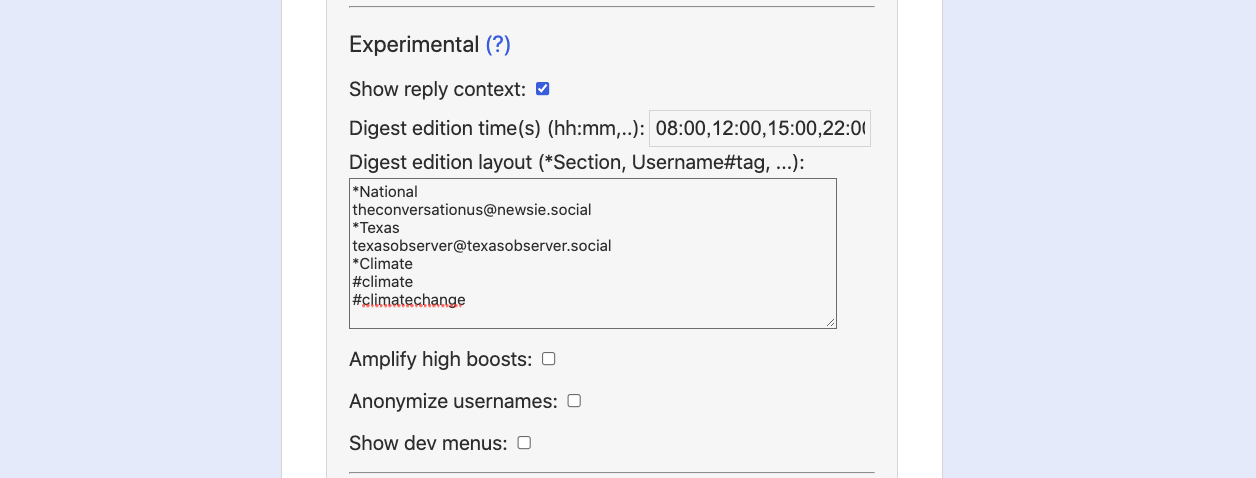
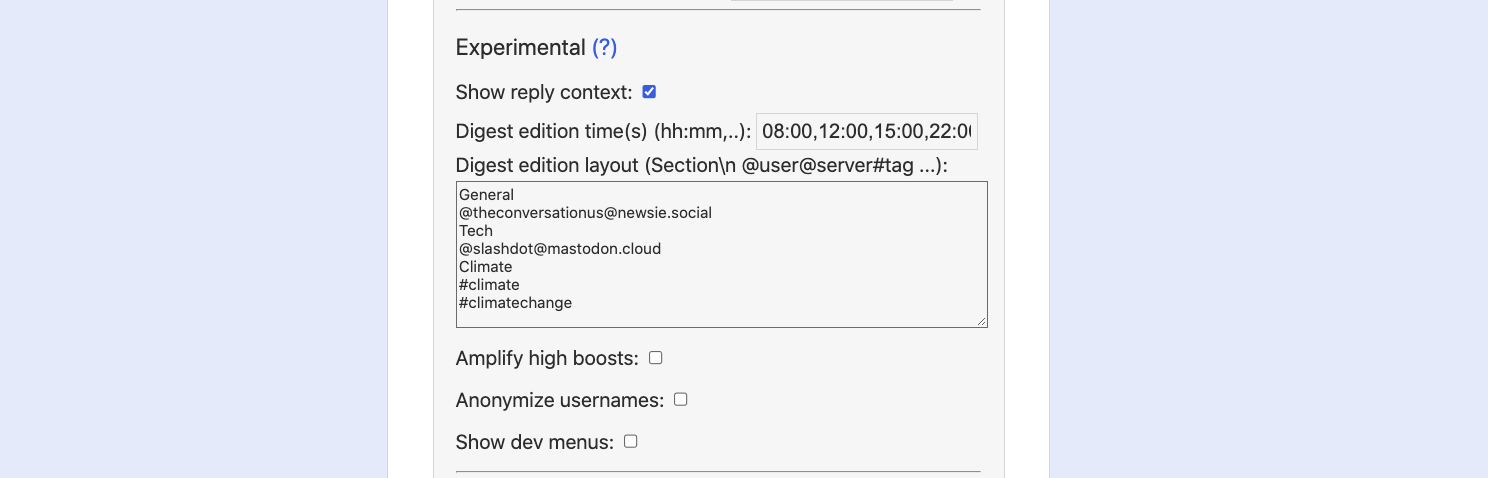
v0.4.1; Revamped format for digest user specification; Docs update

diff --git a/src/routes/_curation/curationGeneral.js b/src/routes/_curation/curationGeneral.js
@@ -4,7 +4,7 @@ import { zeropad, offsetDaysInDate, nextTimeInterval } from './curationStore.js'
 
 import { USER_FOLLOW_UPDATE, getSummary, setSummary, getSummaryKey, newUserFollow } from './curationCache.js'
 
-export const MAHOOT_CODE_VERSION = '0.4.0'
+export const MAHOOT_CODE_VERSION = '0.4.1'
 
 export const MAHOOT_DATA_VERSION = '0.4'
 
@@ -89,9 +89,16 @@ function extractBioInfo (key, text) {
   return match ? match[1].replace(/\s*,\s*/g, ' ').replace(/\s+/g, ' ').trim() : ''
 }
 
-export function getMyUsername () {
+export function getMyUsername (full) {
   const { currentInstance, verifyCredentials } = store.get()
-  return verifyCredentials[currentInstance] ? verifyCredentials[currentInstance].acct.toLowerCase() : ''
+  if (!verifyCredentials[currentInstance]) {
+    return ''
+  }
+  let username = verifyCredentials[currentInstance].acct.toLowerCase()
+  if (full) {
+    username += '@' + currentInstance.toLowerCase()
+  }
+  return username
 }
 
 export function nextInterval (lastIntervalStr) {
@@ -146,66 +153,69 @@ let EditionLayoutCached = {}
 
 export function getEditionLayout () {
   // Entries: username1, username2@server2 *SectionName username3@server3#tag3, #followtopic4, ...
-  let { curationEditionLayout } = store.get()
+  let { currentInstance, curationEditionLayout } = store.get()
   if (curationEditionLayout === EditionLayoutText) {
     return EditionLayoutCached
   }
 
-  const rewritten = []
-  const sectionEntries = curationEditionLayout.trim().split('*')
+  const lines = curationEditionLayout.trim().split(/[\r\n]+/).map(s => s.trim()).filter(s => s)
   const editionLayout = {}
   let rewrite = false
 
-  let index = 1
-  for (const [j, sectionEntry] of sectionEntries.entries()) {
-    let names = sectionEntry.replace(/,/g, ' ').trim().split(/\s+/)
-    if (!names[0]) {
-      continue
-    }
-    let section
-    if (!j) {
-      section = '*'
-    } else {
-      section = '*' + names[0]
-      names = names.slice(1)
-    }
-    if (!names.length) {
-      continue
-    }
-    editionLayout[section] = { tag: '', section, index }
+  let index = 1 // Start indexing at 1 so that #MOTx section can be 0
+  let section = '*'
+  editionLayout[section] = { tag: '', section, index }
+  const rewritten = []
 
-    const userEntries = names.map(s => s.trim()).map(s => s.startsWith('@') ? s.substr(1).trim() : s).filter(s => s)
-    const secusers = []
+  for (const line of lines) {
+    if (line.indexOf('@') < 0 && line.indexOf('#') < 0) {
+      section = '*' + line
+      editionLayout[section] = { tag: '', section, index }
+      rewritten.push(line + '\n')
+      continue
+    }
+    const userEntries = line.replace(/,/g, ' ').trim().split(/\s+/).filter(s => s)
+    if (!userEntries.length) {
+      continue
+    }
+
+    const userList = []
     for (const userEntry of userEntries) {
-      const match = userEntry.match(/^(\w+(@[-.a-z0-9]+)?)?(#\w+)?$/i) // At least one pattern must match for non-null string
+      const match = userEntry.match(/^((@\w+)(@[-.a-z0-9]+)?)?(#\w+)?$/i) // At least one pattern must match for non-null string
       if (match) {
         let digestName = ''
         let tag = ''
         if (match[1]) {
-          digestName = match[1].toLowerCase()
-          tag = (match[3] || '').slice(1).toLowerCase()
+          // @username[@instance]#tagname
+          if (match[3] && match[3].toLowerCase() === currentInstance.toLowerCase()) {
+            // Omit instance name for local user
+            digestName = match[2].slice(1).toLowerCase()
+          } else {
+            digestName = match[1].slice(1).toLowerCase()
+          }
+          tag = (match[4] || '').slice(1).toLowerCase()
         } else {
-          // #tagname
-          digestName = match[3]
+          // #tagname only
+          digestName = match[4]
         }
         if (editionLayout[digestName]) {
-          secusers.push('Duplicate:' + userEntry)
+          userList.push(':Duplicate:' + userEntry)
           rewrite = true
         } else {
-          secusers.push(userEntry)
+          userList.push(userEntry)
           editionLayout[digestName] = { tag, section, index }
           index += 1
         }
       } else {
-        if (userEntry.startsWith('Invalid:') || userEntry.startsWith('Duplicate:')) {
-          secusers.push(userEntry)
+        if (userEntry.startsWith(':Invalid:') || userEntry.startsWith(':Duplicate:')) {
+          userList.push(userEntry)
         } else {
-          secusers.push('Invalid:' + userEntry)
+          userList.push(':Invalid:' + userEntry)
           rewrite = true
         }
       }
     }
-    rewritten.push((section === '*' ? '' : section + '\n') + secusers.join(', ') + '\n')
+    rewritten.push(userList.join(' ') + '\n')
   }
 
   if (rewrite) {

diff --git a/src/routes/_components/profile/AccountDisplayName.html b/src/routes/_components/profile/AccountDisplayName.html
@@ -1,7 +1,10 @@
-<span class="account-display-name">{@html massagedAccountName }</span>
+<span class={className}>{@html massagedAccountName }</span>
 <style>
   .account-display-name {
     pointer-events: none; /* allows focus to work correctly, focus on the parent only */
+  }
+  .account-display-name-bold {
+    font-weight: bold;
   }
 </style>
 <script>
@@ -9,12 +12,17 @@
   import { store } from '../../_store/store.js'
   import escapeHtml from 'escape-html'
   import { removeEmoji } from '../../_utils/removeEmoji.js'
+  import { classname } from '../../_utils/classname.js'
 
   export default {
     store: () => store,
     computed: {
       emojis: ({ account }) => (account.emojis || []),
       accountName: ({ account }) => (account.display_name || account.username),
+      className: ({ account }) => (classname(
+        'account-display-name',
+        (account.username || '').startsWith('dailyedition') && 'account-display-name-bold'
+      )),
       massagedAccountName: ({ accountName, emojis, $autoplayGifs, $omitEmojiInDisplayNames }) => {
         accountName = escapeHtml(accountName)
 

diff --git a/src/routes/_curation/curationTimeline.js b/src/routes/_curation/curationTimeline.js
@@ -15,8 +15,13 @@ import { curateSingleStatus } from './curationFilter.js'
 
 function editionLabel (status, display) {
   // Section names are of the form #motx or *[name]
-  const username = status.account.acct.toLowerCase()
   const section = status.curation_save || '#'
+
+  if (display) {
+    return section.startsWith('*') ? section.slice(1) : section
+  }
+
+  const username = status.account.acct.toLowerCase()
   const editionLayout = getEditionLayout()
 
   let sectionIndex = '9999'
@@ -34,7 +39,7 @@ function editionLabel (status, display) {
     }
   }
   // Sort by section index, then section name, then user index, then username then post time
-  const label = display ? section : sectionIndex + '/' + section + '/' + userIndex + '@' + username + '-' + date2hhmmISO(getSnowflakeDate(status.id))
+  const label = sectionIndex + '/' + section + '/' + userIndex + '@' + username + '-' + date2hhmmISO(getSnowflakeDate(status.id))
   return label
 }
 

diff --git a/src/routes/_curation/curationData.js b/src/routes/_curation/curationData.js
@@ -58,7 +58,7 @@ export async function exportCurationData () {
 
   const paramObj = {}
   paramObj.mahoot_data_version = MAHOOT_DATA_VERSION
-  paramObj.username = getMyUsername()
+  paramObj.username = getMyUsername(true)
 
   for (const setting of Object.keys(CURATION_SETTINGS)) {
     paramObj[setting] = store.get()[setting]
@@ -96,8 +96,8 @@ export function importCurationData (jsonString) {
     console.log('importCurationData:', errMsg)
     return errMsg
   }
-  if (!paramObj.username || paramObj.username !== getMyUsername()) {
-    errMsg = `USER MISMATCH ${paramObj.username} != ${getMyUsername()}`
+  if (!paramObj.username || paramObj.username !== getMyUsername(true)) {
+    errMsg = `USER MISMATCH ${paramObj.username} != ${getMyUsername(true)}`
     console.log('importCurationData:', errMsg)
     return errMsg
   }

diff --git a/src/routes/_pages/settings/curation.html b/src/routes/_pages/settings/curation.html
@@ -57,9 +57,9 @@
              bind:value='$curationEditionTime' placeholder="hh:mm[, hh:mm, ...] local time for daily digest edition(s)"
       >
     <br>
-    <label for="curationEditionLayout">Digest edition layout (*Section, Username#tag, ...):</label>
+    <label for="curationEditionLayout">Digest edition layout (Section\n @user@server#tag ...):</label>
         <textarea bind:value="$curationEditionLayout"
-                  placeholder="username1, username2@server2 *SectionName username3@server3#tag3, #followedTag, ..."
+                  placeholder="SectionName\n @user1@server1 @user2@server2#tag2 #followedTag ..."
                   maxlength="1000"></textarea>
     <label class="setting-group">
       Amplify high boosts:

diff --git a/src/routes/_components/Avatar.html b/src/routes/_components/Avatar.html
@@ -1,4 +1,8 @@
-{#if error}
+{#if (account.username || '').startsWith('dailyedition')}
+<SvgIcon className={computedClass} style={svgStyle} href="#fa-newspaper" />
+{:elseif (account.username || '').startsWith('replycontext')}
+<SvgIcon className={computedClass} style={svgStyle} href="#fa-reply" />
+{:elseif error}
 <SvgIcon className={computedClass} style={svgStyle} href="#fa-user" />
 {:elseif $autoplayGifs}
   <LazyImage

diff --git a/docs/MahootUserGuide.md b/docs/MahootUserGuide.md
@@ -1,6 +1,6 @@
 # Mahoot User Guide
 
-Version 0.4.0
+Version 0.4.1
 
 - [Getting started](#getting-started)
 
@@ -242,22 +242,21 @@ You don't have to wait a whole day to read a new digest edition in your feed. Th
 <em>Mahoot simple edition example.</em>
 </p>
 
-The ``Digest edition layout`` option allows you to specify a (comma/space-separated) list of usernames whose posts will be automatically digested and displayed in the next "edition" (excluding posts that are dropped by the Mahoot algorithm). You can append a hashtag to the username to indicate that only those posts with that hashtag will be included in the digest. You can also specify ``*SectionName`` to indicate the start of a named section of the edition, followed by a list of usernames for that section. Here's a sample edition layout:
+The ``Digest edition layout`` option allows you to specify a (comma/space-separated) list of usernames whose posts will be automatically digested and displayed in the next "edition" (excluding posts that are dropped by the Mahoot algorithm). You can append a hashtag to the username to indicate that only those posts with that hashtag will be included in the digest. You can also specify a ``SectionName`` to indicate the start of a named section of the edition, followed by a list of usernames for that section. Here's a sample edition layout:
 
-    user1, blogger@server2#motx, ...
-    *News
-    journal@server3, reporter@server4#politics, ...
-    *Science
-    columnist@server5#motx, scientist@server6#climate, #climatechange, ...
-    *Opinion
-    pundit@server7, opinionated@server8, ...
+    @user1@server1 @blogger@server2#motx ...
+    News
+    @journal@server3 @reporter@server4#politics ...
+    Science
+    @columnist@server5#motx @scientist@server6#climate #climatechange, ...
+    Opinion
+    @pundit@server7 @opinionated@server8 ...
 
 - Note 1: Empty editions will appear as just a thick line
-- Note 2: For users on your Mastodon server, ``@server`` should be omitted from the username
-- Note 3: Suffix ``#motx`` indicates all periodic posts from the user should be inlcuded in the edition, as explained below
-- Note 4: Plain hashtag ``#climatechange`` indicates all non-dropped and non-reply posts on the topic should be included in the edition (assuming you are following ``#climatechange``)
+- Note 2: Suffix ``#motx`` indicates all periodic posts from the user (see below) should be inlcuded in the edition
+- Note 3: Plain hashtag ``#climatechange`` indicates all non-dropped and non-reply posts on the topic should be included in the edition (assuming you are following ``#climatechange``)
 
-Editions can be considered as a single-feed alternative to Mastodon Lists. More sophisticated ways to format editions can be expected in the future.
+Editions can be considered as a single-feed alternative to Mastodon Lists. More sophisticated ways to format editions can also be considered.
 
 ### Periodic posts (message of the day/week/month)
 

diff --git a/docs/MahootProtocol.md b/docs/MahootProtocol.md
@@ -14,7 +14,7 @@ We can treat the followees differentially by assigning an *amplification factor*
 
 For followees who post less than their M<sub>user</sub> value, the probability of viewing their post is 1. For followees who post more than their M<sub>user</sub> value, the probability of viewing their post is M<sub>user</sub> / P<sub>user</sub>, where P<sub>user</sub> is their daily posting rate. Usually, only a small fraction of an user's followees post more than the default Mahoot number.
 
-Mastodon also allows an user to follow hashtags. Following a single hashtag can insert a "firehose" of posts in to your timeline. Mahoot helps deal with this by treating following a hashtag the same as following an user, with an adjustable amplification factor associated with each hashtag being followed. 
+Mastodon also allows an user to follow hashtags. Following a single hashtag can insert a "firehose" of posts in your timeline. Mahoot helps deal with this by treating a followed hashtag the same as a followed user, with an adjustable amplification factor associated with each followed hashtag. If a post includes multiple followed hashtags, then the post is fractionally allocated to each of those hashtags for compute the daily posting rate for the hashtag, P<sub>hashtag</sub>. The probability of viewing a post with multiple followed hashtags is computed as the average of the probability M<sub>hashtag</sub> / P<sub>hashtag</sub> for each hashtag.
 
 ## Post prioritization
 
